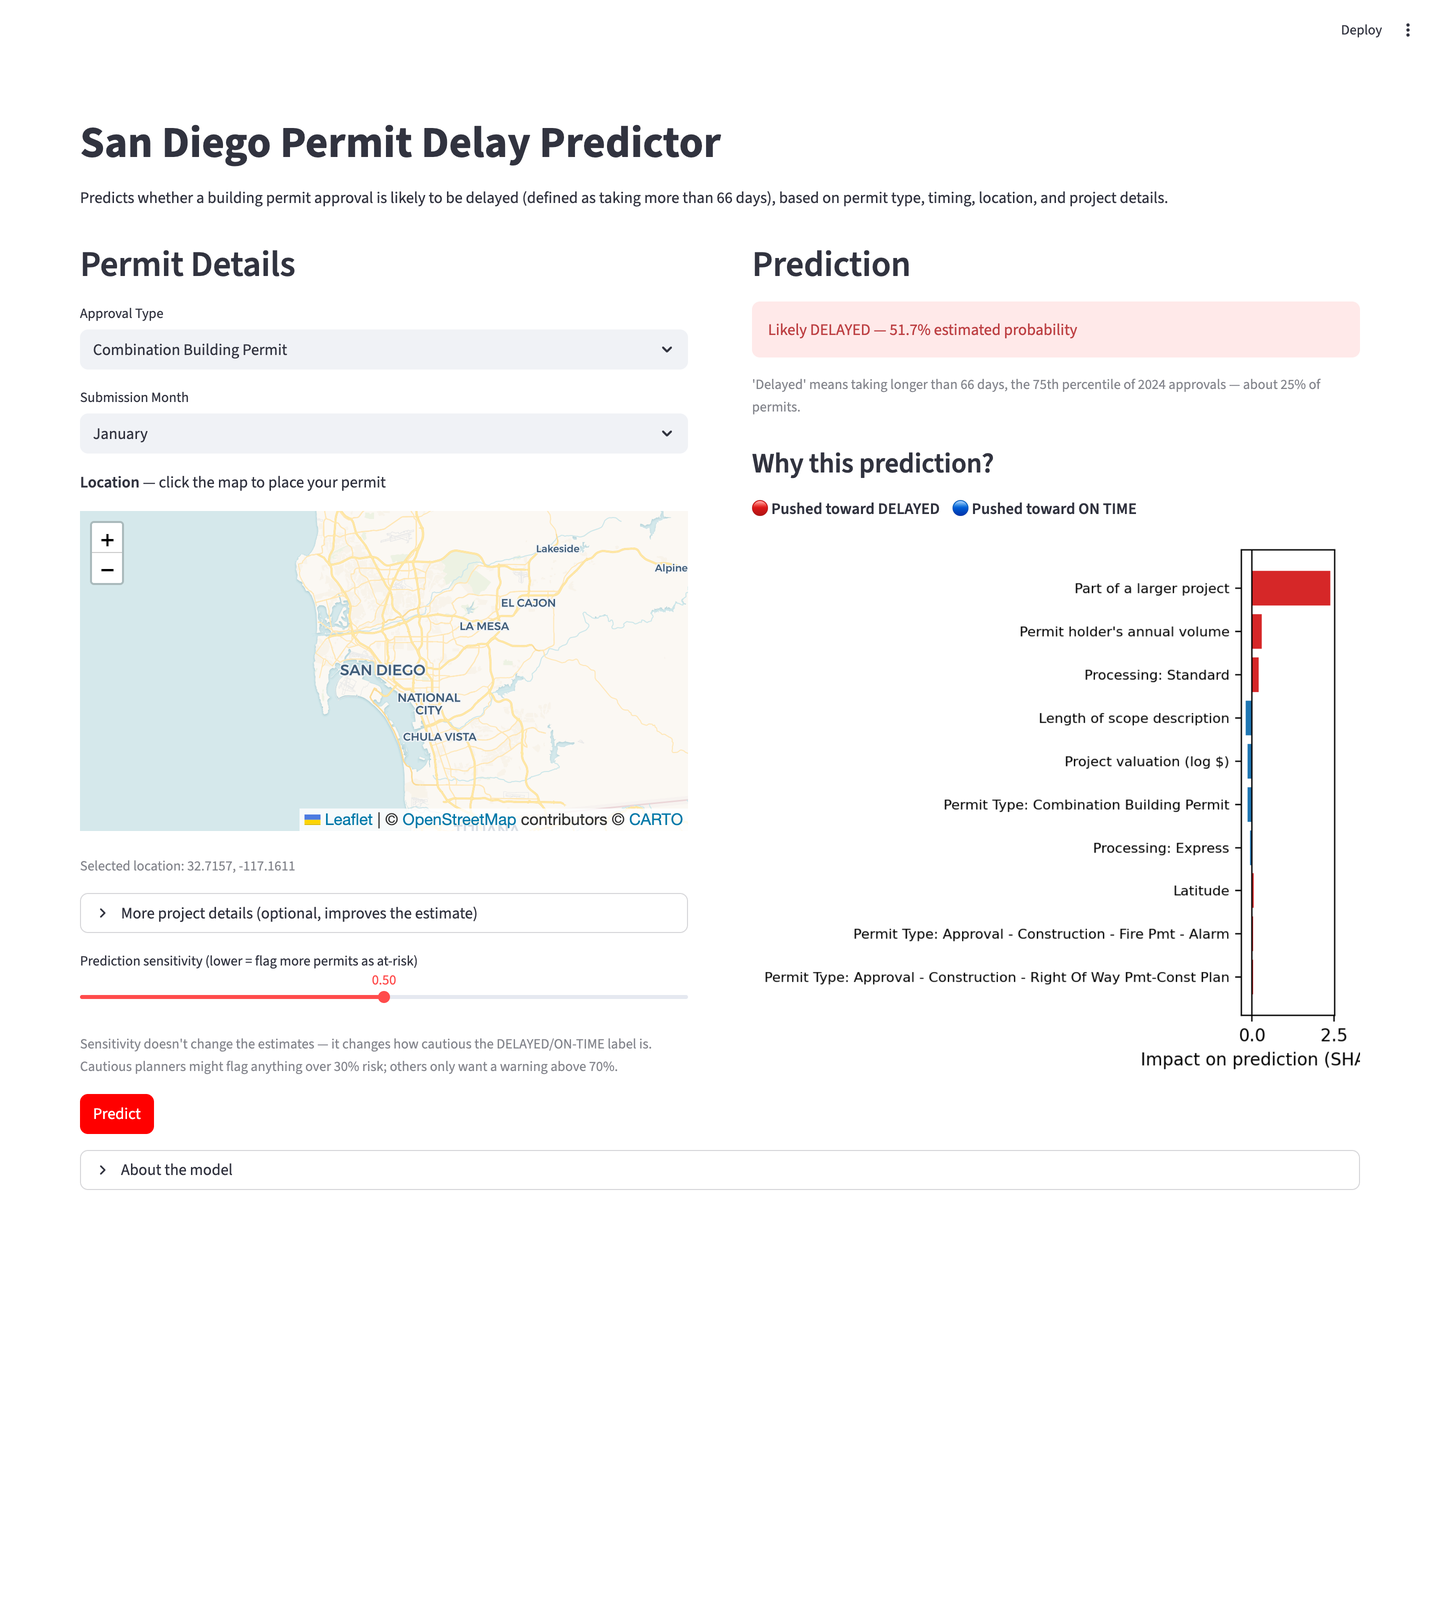
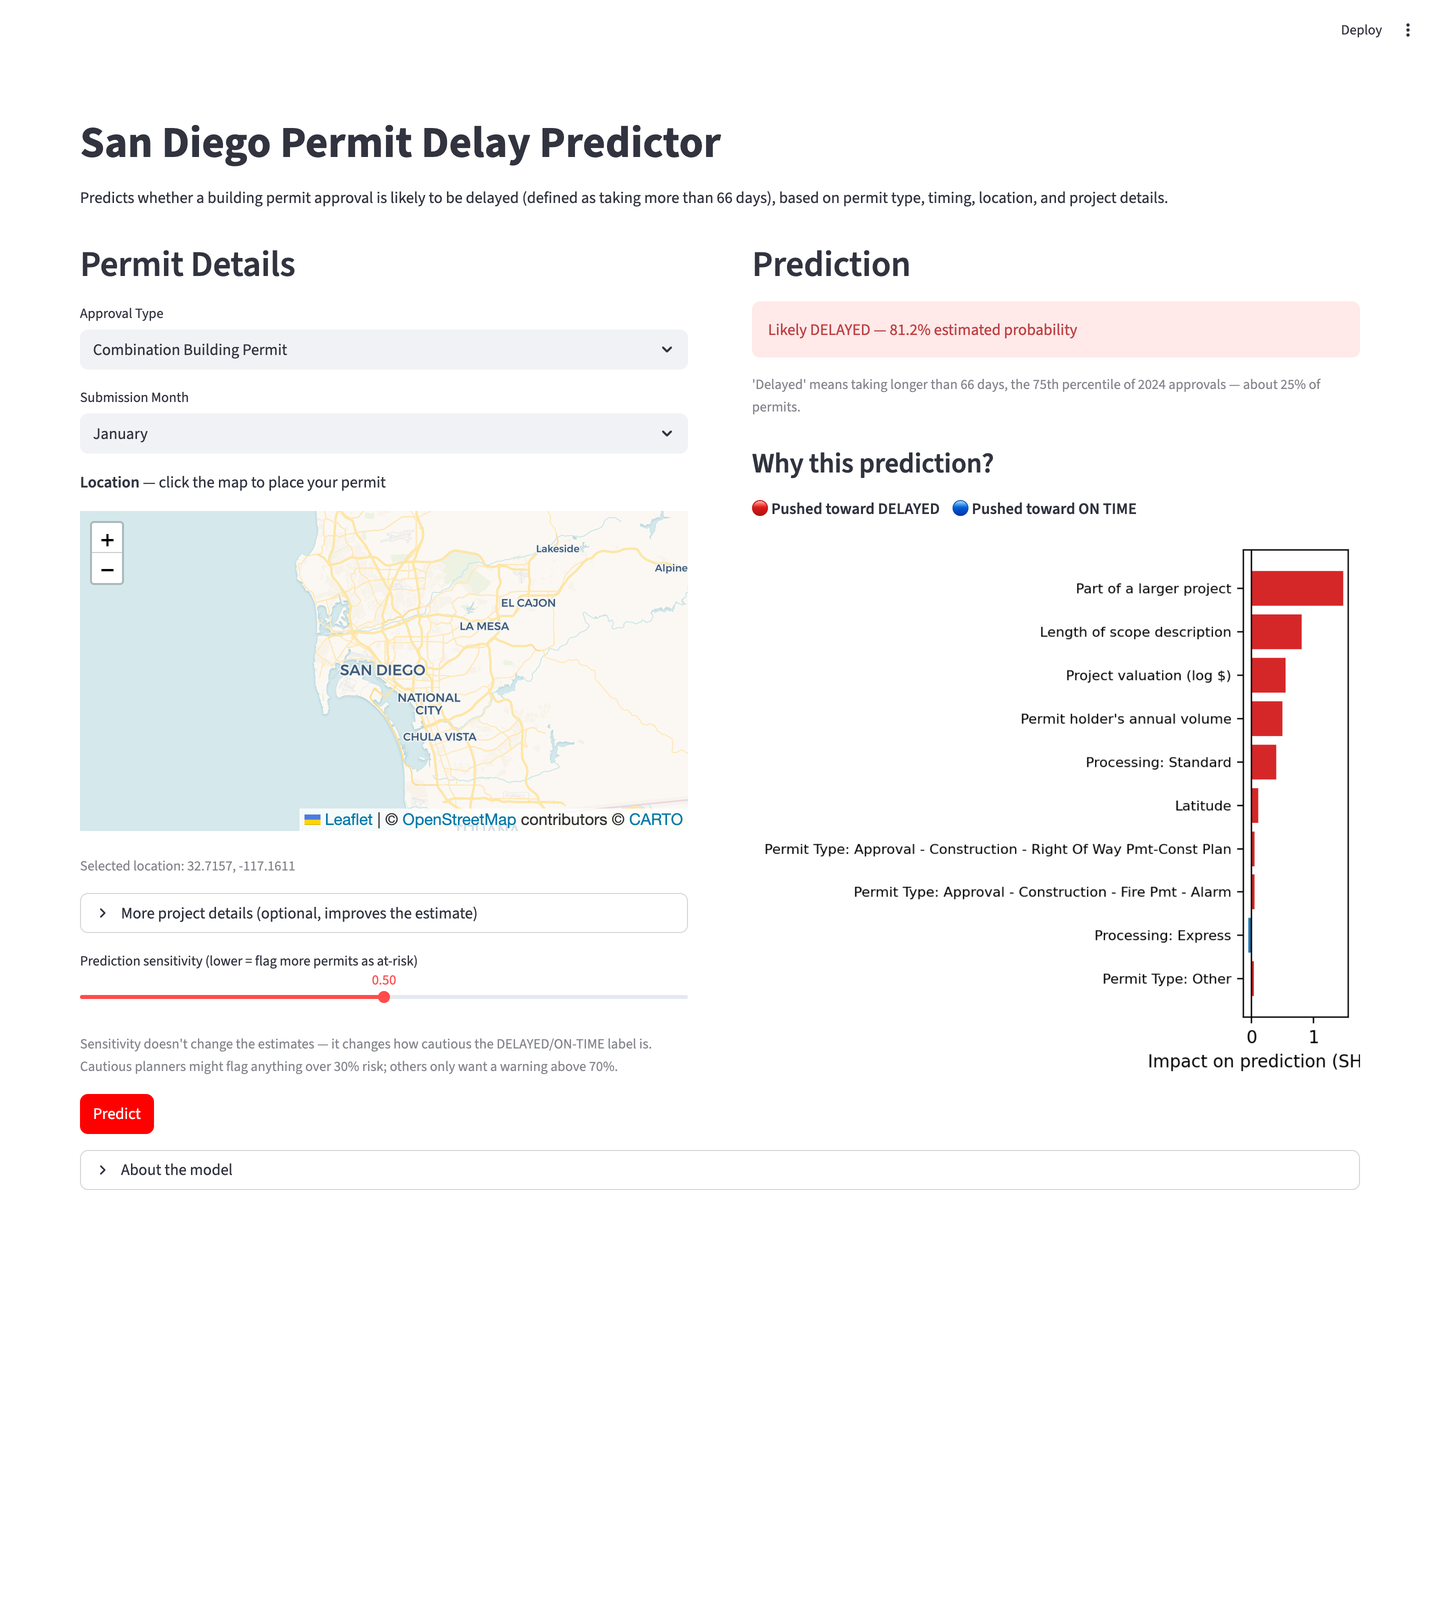
Fix untouched project-detail defaults implying the safest permit
Leaving "More project details" collapsed fed the model the best-case
profile (standalone permit, no valuation, first-time applicant), which
made plan-review permits look artificially safe -- a Combination Building
Permit predicted 1.7% delay probability against an actual 2025 delay rate
of 62.5%. Every plan-review type was affected.

Optional inputs now default to the typical values for the selected permit
type, computed from 2024 training data (mode for project linkage and
processing track, median for valuation, scope length, and contractor
volume) and saved as type_defaults.pkl. Widgets re-seed when the type
changes, and a blank scope box imputes the type's median description
length. Untouched predictions now track actual per-type delay rates
(Combination Building 81.2%, routine no-plan types ~1%).

Changed region(s): [[0.5938, 0.3423, 0.9375, 0.6845], [0.5312, 0.5912, 0.5625, 0.6223]]

diff --git a/app.py b/app.py
@@ -27,6 +27,7 @@ def load_artifacts():
         "features": joblib.load("features_v2.pkl"),
         "top_types": list(joblib.load("top_15_types.pkl")),
         "cutoff": float(joblib.load("cutoff.pkl")),
+        "type_defaults": joblib.load("type_defaults.pkl"),
     }
 
 
@@ -72,25 +73,53 @@ with input_col:
     latitude, longitude = st.session_state.get("clicked_location", SD_CENTER)
     st.caption(f"Selected location: {latitude:.4f}, {longitude:.4f}")
 
+    # Untouched fields default to the TYPICAL values for the selected permit
+    # type (training-data mode/median, see type_defaults in train.py). An
+    # all-blank form would otherwise assert the safest possible profile —
+    # "standalone permit, no valuation, first-time applicant" — which makes
+    # plan-review permits look artificially low-risk. Widgets are keyed by
+    # type so switching types re-seeds the defaults.
+    D = A["type_defaults"].get(approval_type, A["type_defaults"]["Other"])
+    proc_options = ["Not sure"] + PROCESSING_CODES
+    default_proc = D["processing_code"] if D["processing_code"] in PROCESSING_CODES else "Not sure"
+    volume_labels = list(HOLDER_VOLUME_CHOICES)
+    default_volume = min(
+        (lbl for lbl in volume_labels if HOLDER_VOLUME_CHOICES[lbl] > 0),
+        key=lambda lbl: abs(HOLDER_VOLUME_CHOICES[lbl] - D["holder_volume"]),
+    )
+
     with st.expander("More project details (optional, improves the estimate)"):
+        st.caption(
+            "Pre-filled with typical values for the selected permit type — "
+            "adjust anything you know about your project."
+        )
         has_project = st.checkbox(
-            "Part of a larger development project", value=False
+            "Part of a larger development project",
+            value=D["has_project"], key=f"proj_{approval_type}",
         )
         processing_code = st.selectbox(
-            "Processing track",
-            ["Not sure"] + PROCESSING_CODES,
+            "Processing track", proc_options,
+            index=proc_options.index(default_proc), key=f"proc_{approval_type}",
             help="The review track assigned when the application is filed.",
         )
         valuation = st.number_input(
             "Declared project valuation ($, 0 if none)",
-            min_value=0.0, value=0.0, step=1000.0,
+            min_value=0.0, value=D["valuation"], step=1000.0,
+            key=f"val_{approval_type}",
         )
         scope_text = st.text_area(
             "Scope of work description (as you'd write it on the application)",
-            value="",
+            value="", key=f"scope_{approval_type}",
+            placeholder=(
+                f"Typical descriptions for this type run ~{D['scope_len']:.0f} "
+                "characters; left blank, that typical length is assumed."
+                if D["scope_len"] > 0 else ""
+            ),
         )
         holder_choice = st.selectbox(
-            "Who's pulling the permit?", list(HOLDER_VOLUME_CHOICES)
+            "Who's pulling the permit?", volume_labels,
+            index=volume_labels.index(default_volume),
+            key=f"holder_{approval_type}",
         )
 
     sensitivity = st.slider(
@@ -119,6 +148,8 @@ with output_col:
             valuation=valuation,
             scope_text=scope_text,
             holder_permits_per_year=HOLDER_VOLUME_CHOICES[holder_choice],
+            # blank scope box -> assume this type's typical description length
+            scope_len=D["scope_len"] if not scope_text else None,
         )
 
         st.session_state["result"] = {

diff --git a/train.py b/train.py
@@ -110,6 +110,35 @@ def main():
     m2.fit(X_train[v2_cols], y_train)
     metrics["v2"] = evaluate("v2 (enriched)", m2, X_test[v2_cols], y_test)
 
+    # --- Per-type defaults for the app's optional inputs ---
+    # When a user leaves "More project details" untouched, the app fills in
+    # the TYPICAL values for the selected permit type (training-data mode /
+    # median) rather than best-case values like "standalone permit". An
+    # all-blank form otherwise asserts the safest possible profile and
+    # makes plan-review permits look artificially low-risk.
+    print("\nComputing per-type input defaults...")
+    tg = train_df["APPROVAL_TYPE"].where(
+        train_df["APPROVAL_TYPE"].isin(top_types), "Other"
+    )
+    val = pd.to_numeric(train_df["APPROVAL_VALUATION"], errors="coerce")
+    scope_len = train_df["APPROVAL_SCOPE"].fillna("").str.len()
+    holder_vol = train_df["APPROVAL_PERMIT_HOLDER"].map(holder_freq).fillna(0)
+
+    type_defaults = {}
+    for t, g in train_df.groupby(tg):
+        idx = g.index
+        proc_mode = g["APPROVAL_PROCESSING_CODE"].fillna("(none)").mode().iloc[0]
+        has_val = (val.loc[idx] > 0).mean() >= 0.5
+        type_defaults[t] = {
+            "has_project": bool(g["PROJECT_ID"].notna().mean() >= 0.5),
+            "processing_code": None if proc_mode == "(none)" else proc_mode,
+            "valuation": float(val.loc[idx][val.loc[idx] > 0].median()) if has_val else 0.0,
+            "scope_len": float(scope_len.loc[idx].median()),
+            "holder_volume": float(holder_vol.loc[idx].median()),
+        }
+        d = type_defaults[t]
+        print(f"  {t[:45]:47s} proj={d['has_project']} proc={d['processing_code']}")
+
     # --- SHAP global importance for v2 ---
     print("\nComputing SHAP summary (5,000-row test sample)...")
     import shap
@@ -138,6 +167,7 @@ def main():
     joblib.dump(top_types, "top_15_types.pkl")
     joblib.dump(cutoff, "cutoff.pkl")
     joblib.dump(holder_freq, "holder_freq.pkl")
+    joblib.dump(type_defaults, "type_defaults.pkl")
     with open("figures/metrics.json", "w") as f:
         json.dump(metrics, f, indent=2)
     print("\nArtifacts saved. Done.")

diff --git a/features.py b/features.py
@@ -97,6 +97,7 @@ def build_input_row(
     valuation=0.0,
     scope_text="",
     holder_permits_per_year=0,
+    scope_len=None,
 ):
     """Build a single-row feature frame from app inputs.
 
@@ -127,7 +128,10 @@ def build_input_row(
         row["has_valuation"] = 1
         row["log_valuation"] = float(np.log1p(valuation))
 
-    row["log_scope_len"] = float(np.log1p(len(scope_text or "")))
+    # scope_len overrides the text length when provided (used for imputing
+    # a typical description length when the user leaves the field blank)
+    effective_len = scope_len if scope_len is not None else len(scope_text or "")
+    row["log_scope_len"] = float(np.log1p(effective_len))
     row["log_holder_volume"] = float(np.log1p(holder_permits_per_year or 0))
 
     return pd.DataFrame([row])[features_to_keep]

diff --git a/DECISIONS.md b/DECISIONS.md
@@ -58,6 +58,28 @@ Location shows a modest continuous effect; month has minimal individual impact.
 
 
 
+# App Defaults Bug: Untouched Inputs Implied the Safest Permit (August 2026)
+
+Found after deploy: leaving "More project details" untouched fed the model
+has_project=False, no valuation, no scope, first-time applicant — the
+safest possible profile. For plan-review types that combination barely
+exists in training (Combination Building Permits are ~100% project-linked),
+so the model read an untouched form as strong evidence of a routine permit:
+a Combination Building Permit showed 1.7% delay probability when its actual
+2025 delay rate is 62.5%. Every plan-review type was affected.
+
+Fix: per-type defaults computed from training data (mode for binary/
+categorical fields, median for numeric ones), stored in type_defaults.pkl
+and re-seeded whenever the selected type changes. A blank scope box now
+imputes the type's median description length instead of zero. Untouched
+predictions now track actual per-type delay rates (Combination Building
+81.2% predicted vs 62.5% actual; routine no-plan types stay ~1%) — a bit
+above the type average by design, since the typical profile (project-linked,
+median valuation) is riskier than the within-type mean. Lesson: default
+input values are a modeling decision, not a UI detail — "left blank" must
+map to "typical," not "best case."
+
+
 # Scope Reduction (August 2026)
 
 Removed two shipped pieces from the app and pipeline: the deadline risk
